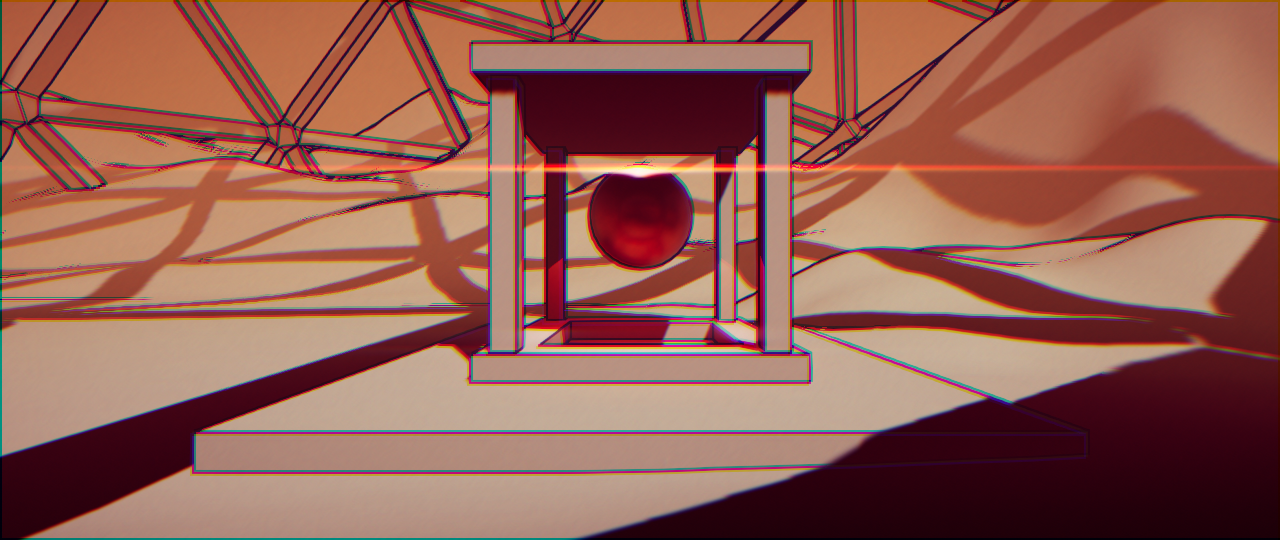
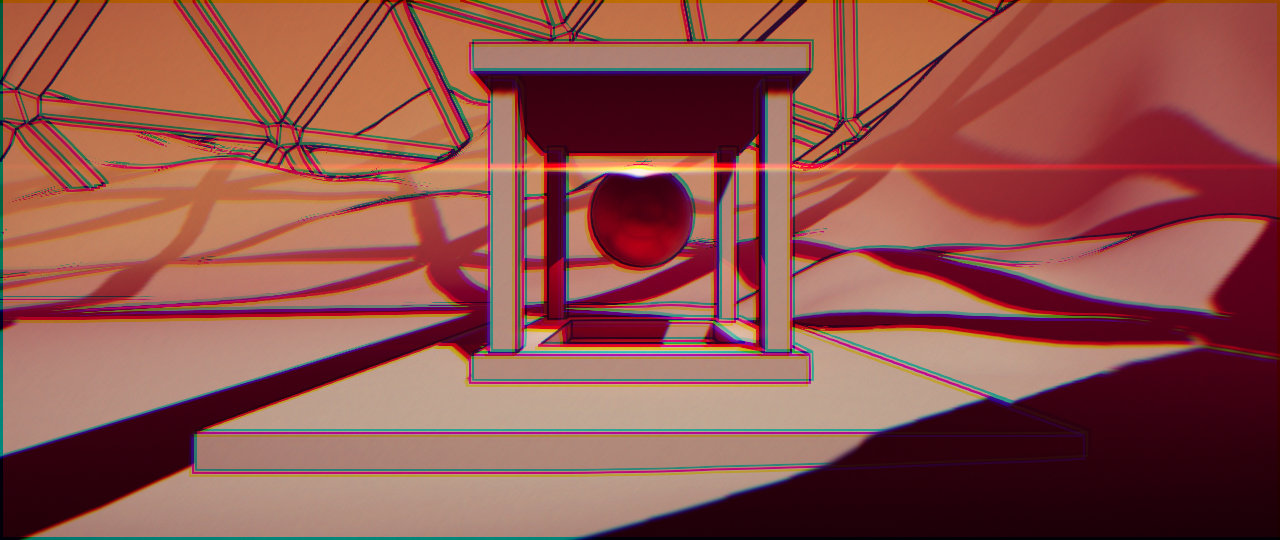
Updated screenshots for more clarity.

diff --git a/README.md b/README.md
@@ -20,9 +20,15 @@ The screenshots uses the following builtin effects:
 
 They also contain the following custom effects:
 * Edge Detection (Adapted from [this tutorial](https://halisavakis.com/my-take-on-shaders-edge-detection-image-effect/) by [Harry Alisavakis](https://halisavakis.com/)).
-* Gradient Fog (A simplified version of [Multi-Colored Fog](https://halisavakis.com/my-take-on-shaders-firewatch-multi-colored-fog/) by [Harry Alisavakis](https://halisavakis.com/)).
+* Gradient Fog.
 * Chromatic Splitting.
 * Streak (Adapted from [Kino](https://github.com/keijiro/Kino) by [Keijiro Takahashi](https://github.com/keijiro)).
+
+Other custom effects in samples but not used in screenshots:
+* After Image.
+* Glitch.
+* GrayScale.
+* Invert.
 
 ## How To Install
 
